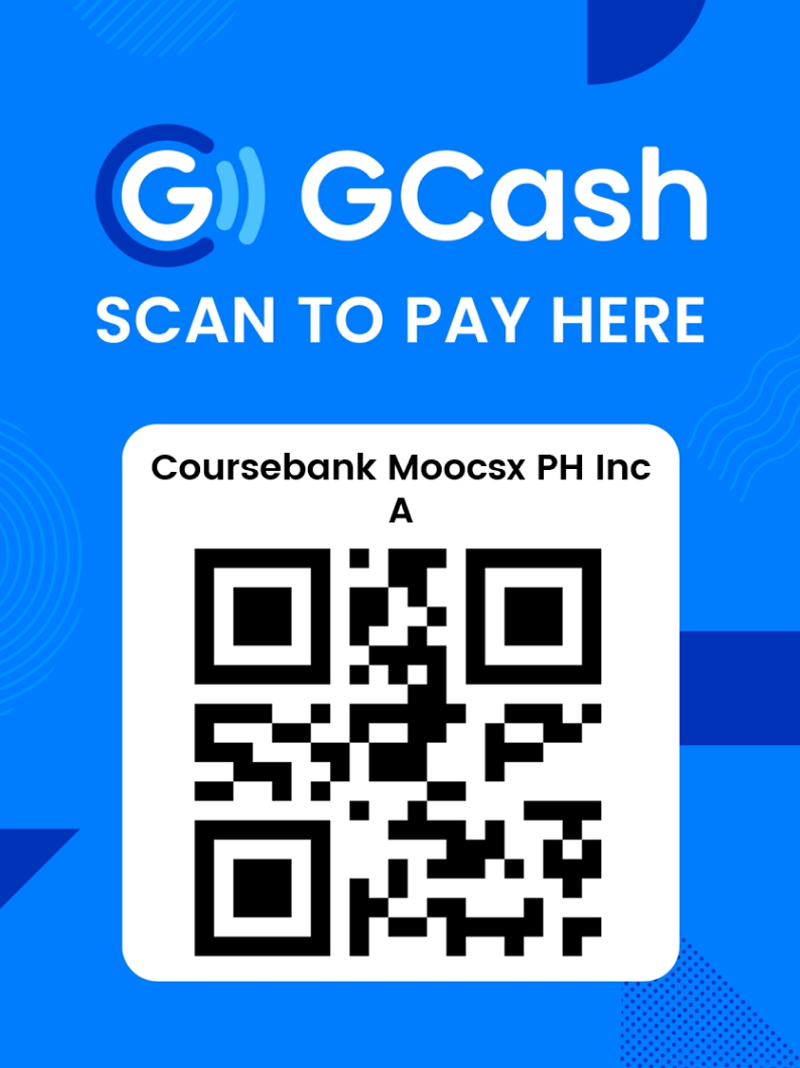
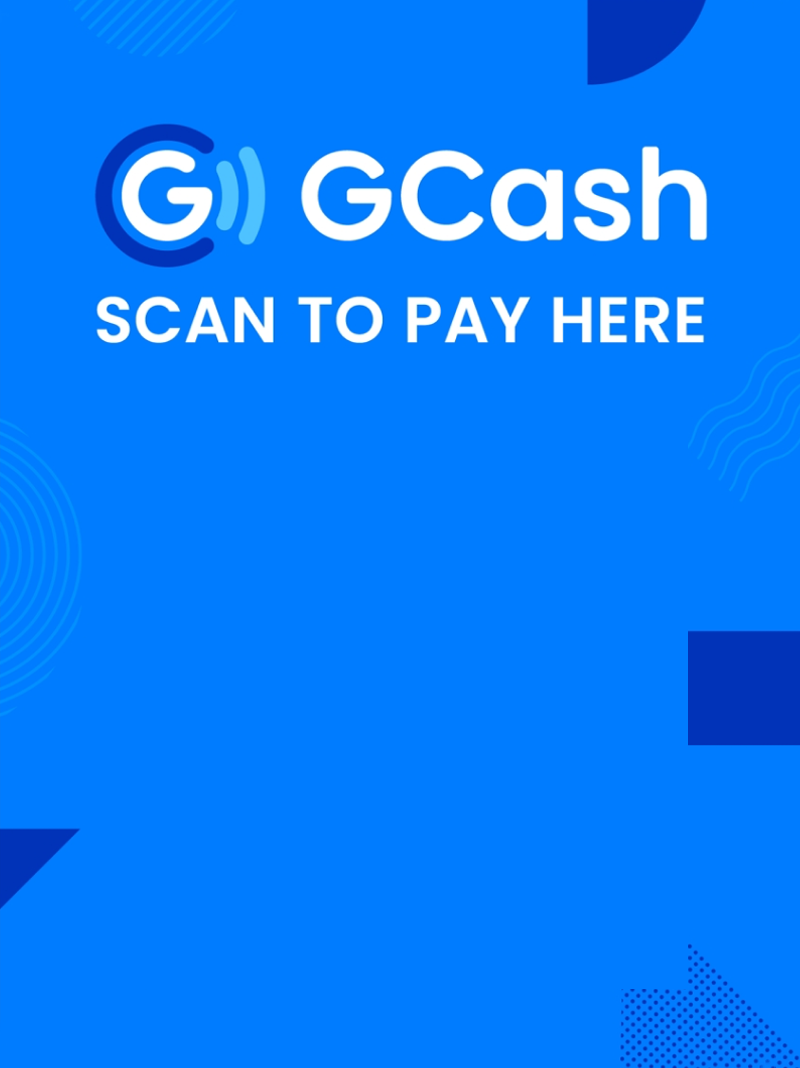
230725 update
付款碼新增以照片顯示 更新

diff --git a/css/standard.css b/css/standard.css
@@ -1,1 +1,1 @@
-@import url("reset.css");@font-face{font-family:'Roboto';font-style:normal;font-weight:400;font-display:swap;src:url(https://fonts.gstatic.com/s/roboto/v30/KFOmCnqEu92Fr1Me5Q.ttf) format('truetype')}.body-wrap{width:100%;height:auto;font-family:'Roboto','Noto Sans TC','Microsoft JhengHei','黑體',sans-serif,serif;font-size:18px;letter-spacing:.5px;-webkit-text-size-adjust:none;color:#333333;background:#F2F1F6;overflow:hidden}.body-wrap *{-webkit-box-sizing:border-box;-moz-box-sizing:border-box;box-sizing:border-box}.body-wrap a,.body-wrap button,.body-wrap select{cursor:pointer}.body-wrap a:hover{text-decoration:none}.body-wrap select,.body-wrap input,.body-wrap textarea,.body-wrap button{font-family:'Roboto','Noto Sans TC','Microsoft JhengHei','黑體',sans-serif,serif;font-size:16px;letter-spacing:.5px;-webkit-text-size-adjust:none}.body-wrap input:-webkit-autofill{box-shadow:0 0 0 1000px #FFFFFF inset !important}.body-wrap img{max-width:100%;height:auto}.container{width:100%;height:100dvh;margin:0 auto;display:flex;flex-flow:nowrap;justify-content:space-between;align-items:flex-start}.main__left{width:52%;height:100%;padding:3%;display:flex;flex-flow:wrap;align-content:space-between;align-items:stretch}.main__left>*{width:100%}.main__left .store-name{margin-bottom:10px;font-size:24px;font-weight:bold;text-align:center}.main__left .title-s{margin-bottom:5px;color:#828282;text-align:center}.main__left .payments{display:flex;flex-flow:wrap;justify-content:stretch;align-items:flex-start}.main__left .payments>a{width:14%;margin-right:7.5%;margin-bottom:0;cursor:default}.main__left .payments>a:nth-child(5n){margin-right:0}.main__left .qrcode{padding:4%;margin:10px auto 20px auto;color:#22798C;text-align:center;background:#FFFFFF;border-radius:20px;border:5px solid #FF9900;-webkit-animation:border-shiny 1.5s infinite;animation:border-shiny 1.5s infinite}.main__left .qrcode .qrcode__title{font-size:32px}.main__left .qrcode .qrcode__img{position:relative;width:60%;max-width:180px;margin:15px auto 10px auto}.main__left .qrcode .qrcode__img>img{display:block}.main__left .qrcode .qrcode__total{font-size:24px;font-weight:bold}.main__left .qrcode .qrcode__total>b{font-size:44px}.main__left .qrcode .state-overlay{position:absolute;width:100%;height:100%;left:0;right:0;top:0;bottom:0;margin:auto;background-color:rgba(255,255,255,0.9)}@-webkit-keyframes border-shiny{50%{border-color:#F2F1F6}}@keyframes border-shiny{50%{border-color:#F2F1F6}}.main__left .pay--state-success{margin:5px auto 15px auto;color:#27AE60;border-color:#27AE60}.main__left .pay--state-success .state--done{background-image:url(../images/done.png);background-repeat:no-repeat;background-position:center;background-size:60%}.main__left .pay--state-false{color:#EB5757;border-color:#EB5757}.main__left .pay--state-false .state--outdated{background-image:url(../images/outdated.png);background-repeat:no-repeat;background-position:center;background-size:75%}.main__left .order{display:flex;flex-flow:nowrap;justify-content:space-between;align-items:center;color:#828282;font-size:16px}.main__left .qrcode.photo{position:relative;width:auto;height:80%;padding:0;overflow:hidden}.main__left .qrcode.photo>img{display:block;width:auto;height:100%;margin:0 auto}.main__left .qrcode.noborder{border:none}.main__left .qrcode.photo.pay--state-success>img,.main__left .qrcode.photo.pay--state-false>img{filter:grayscale(1);-webkit-filter:grayscale(1)}.main__left .qrcode.photo.pay--state-success .state--done,.main__left .qrcode.photo.pay--state-false .state--done,.main__left .qrcode.photo.pay--state-success .state--outdated,.main__left .qrcode.photo.pay--state-false .state--outdated{background-size:40%;background-color:rgba(255,255,255,0.6)}.main__right{width:48%;height:100%}.main__right .main__right--dm{width:100%;height:100%;overflow:hidden}.main__right .main__right--dm>img{width:100%;height:100%;object-fit:cover}.main__right .main__right--order{width:100%;height:100%;padding:5% 5% 5% 0;display:flex;flex-direction:column}.main__right .main__right--order .order-detail{position:relative;width:100%;height:100%;padding:0 20px 20px 20px;overflow:auto;background:#FFFFFF;box-shadow:0 5px 10px rgba(55,84,170,0.2)}.main__right .main__right--order .order-detail .title-b{position:sticky;width:100%;padding:10px;top:0;left:0;color:#000000;font-size:22px;text-align:center;background:#FFFFFF}.main__right .main__right--order .order-detail>table{width:100%;border:none}.main__right .main__right--order .order-detail>table td{padding-bottom:15px}.main__right .main__right--order .order-detail .pt-qty{padding-right:10px}.main__right .main__right--order .order-detail .pt-qty>span{display:inline-block;padding:3px 10px;font-size:22px;color:#000000;text-align:center;background:#F2F1F6;border-radius:10px}.main__right .main__right--order .order-detail .pt-detail{width:100%;color:#828282;font-size:16px;font-weight:normal}.main__right .main__right--order .order-detail .pt-detail .pt-name{color:#000000;font-size:22px;font-weight:500}.main__right .main__right--order .order-detail .pt-subtotal{padding-left:15px;font-size:22px;font-weight:bold;text-align:right;white-space:nowrap}.main__right .main__right--order .order-detail .pt-subtotal .fs{font-size:14px;margin:auto}.main__right .main__right--order .order-count{position:relative;width:100%;height:fit-content;padding:2.5% 5%;margin-top:10px;background:#FFFFFF;box-shadow:0 5px 10px rgba(55,84,170,0.2)}.main__right .main__right--order .order-count>*{display:flex;flex-flow:nowrap;justify-content:space-between;align-items:center;padding:3px 0;font-size:22px;color:#828282}.main__right .main__right--order .order-count>* .fs{font-size:14px}.main__right .main__right--order .order-count .order-count__addon-items{width:80%;margin-top:-6px;font-size:16px;display:-webkit-box;-webkit-line-clamp:2;-webkit-box-orient:vertical;overflow:hidden;text-overflow:ellipsis}.main__right .main__right--order .order-count .order-count__discount{color:#EB5757}.main__right .main__right--order .order-count .order-count__total{color:#000000}.main__right .main__right--order .order-count::after{display:block;content:'';position:absolute;width:100%;height:20px;left:0;right:0;bottom:-15px;background:url(../images/zip.png) repeat-x center top;background-size:contain}.main__full--dm{width:100%;height:100dvh;overflow:hidden}.main__full--dm>img{width:100%;height:100%;object-fit:cover}@media (min-height:900px){.main__left .store-name{font-size:32px}.main__left .qrcode{padding:12%}.main__left .qrcode .qrcode__title{font-size:40px}.main__left .qrcode .qrcode__img{max-width:300px;margin:30px auto 20px auto}.main__left .qrcode .qrcode__total{font-size:32px}.main__left .qrcode .qrcode__total>b{font-size:52px}}@media (max-width:820px){.body-wrap{font-size:14px;overflow:auto}.container{min-height:100dvh;height:auto}.main__left{width:100%;height:auto;padding:10% 5% 5% 5%}.main__left .store-name{font-size:18px}.main__left .payments>a{width:18.4%;margin-right:2%}.main__left .qrcode .qrcode__title{font-size:24px}.main__left .qrcode .qrcode__total{font-size:18px}.main__left .qrcode .qrcode__total>b{font-size:36px}.main__left .order{font-size:14px}.container .main__right{display:none}.qrcode.pay--state-success{margin:10px auto 25px auto}}@media (max-height:680px){.main__left .store-name{font-size:20px}.main__left .qrcode{margin:5px auto 10px auto}.main__left .qrcode .qrcode__title{font-size:24px}.main__left .qrcode .qrcode__img{max-width:120px;margin:15px auto 10px auto}.main__left .qrcode .qrcode__total{font-size:16px}.main__left .qrcode .qrcode__total>b{font-size:32px}.main__right{height:98%}.main__right .main__right--order .order-count::after{bottom:-14px}}
+@import url("reset.css");@font-face{font-family:'Roboto';font-style:normal;font-weight:400;font-display:swap;src:url(https://fonts.gstatic.com/s/roboto/v30/KFOmCnqEu92Fr1Me5Q.ttf) format('truetype')}.body-wrap{width:100%;height:auto;font-family:'Roboto','Noto Sans TC','Microsoft JhengHei','黑體',sans-serif,serif;font-size:18px;letter-spacing:.5px;-webkit-text-size-adjust:none;color:#333333;background:#F2F1F6;overflow:hidden}.body-wrap *{-webkit-box-sizing:border-box;-moz-box-sizing:border-box;box-sizing:border-box}.body-wrap a,.body-wrap button,.body-wrap select{cursor:pointer}.body-wrap a:hover{text-decoration:none}.body-wrap select,.body-wrap input,.body-wrap textarea,.body-wrap button{font-family:'Roboto','Noto Sans TC','Microsoft JhengHei','黑體',sans-serif,serif;font-size:16px;letter-spacing:.5px;-webkit-text-size-adjust:none}.body-wrap input:-webkit-autofill{box-shadow:0 0 0 1000px #FFFFFF inset !important}.body-wrap img{max-width:100%;height:auto}.container{width:100%;height:100dvh;margin:0 auto;display:flex;flex-flow:nowrap;justify-content:space-between;align-items:flex-start}.main__left{width:52%;height:100%;padding:3%;display:flex;flex-flow:wrap;align-content:space-between;align-items:stretch}.main__left>*{width:100%}.main__left .store-name{margin-bottom:10px;font-size:24px;font-weight:bold;text-align:center}.main__left .title-s{margin-bottom:5px;color:#828282;text-align:center}.main__left .payments{display:flex;flex-flow:wrap;justify-content:stretch;align-items:flex-start}.main__left .payments>a{width:14%;margin-right:7.5%;margin-bottom:0;cursor:default}.main__left .payments>a:nth-child(5n){margin-right:0}.main__left .qrcode{padding:4%;margin:10px auto 20px auto;color:#22798C;text-align:center;background:#FFFFFF;border-radius:20px;border:5px solid #FF9900;-webkit-animation:border-shiny 1.5s infinite;animation:border-shiny 1.5s infinite}.main__left .qrcode .qrcode__title{font-size:32px}.main__left .qrcode .qrcode__img{position:relative;width:60%;max-width:180px;margin:15px auto 10px auto}.main__left .qrcode .qrcode__img>img{display:block;width:70%;height:auto;margin:0 auto}.main__left .qrcode .qrcode__total{font-size:24px;font-weight:bold}.main__left .qrcode .qrcode__total>b{font-size:44px}.main__left .qrcode .state-overlay{position:absolute;width:100%;height:100%;left:0;right:0;top:0;bottom:0;margin:auto;background-color:rgba(255,255,255,0.9)}@-webkit-keyframes border-shiny{50%{border-color:#F2F1F6}}@keyframes border-shiny{50%{border-color:#F2F1F6}}.main__left .pay--state-success{margin:5px auto 15px auto;color:#27AE60;border-color:#27AE60}.main__left .pay--state-success .state--done{background-image:url(../images/done.png);background-repeat:no-repeat;background-position:center;background-size:60%}.main__left .pay--state-false{color:#EB5757;border-color:#EB5757}.main__left .pay--state-false .state--outdated{background-image:url(../images/outdated.png);background-repeat:no-repeat;background-position:center;background-size:75%}.main__left .order{display:flex;flex-flow:nowrap;justify-content:space-between;align-items:center;color:#828282;font-size:16px}.main__left .qrcode.photo{position:relative;width:auto;height:80%;padding:0;overflow:hidden}.main__left .qrcode.photo>img{display:block;width:auto;height:100%}.main__left .qrcode.photo .qrcode__img{position:absolute;width:80%;max-width:80%;bottom:7%;left:10%;right:10%;margin:0 auto;padding:5% 5% 7% 5%;background:#FFFFFF;border-radius:25px}.main__left .qrcode.photo .qrcode__img .qrcode__title{margin-bottom:15px;font-size:20px;font-weight:bold;color:#000000}.main__left .qrcode.noborder{border:none}.main__left .qrcode.photo.pay--state-success>img,.main__left .qrcode.photo.pay--state-false>img{filter:grayscale(1);-webkit-filter:grayscale(1);opacity:.5}.main__left .qrcode.photo.pay--state-success .state--done,.main__left .qrcode.photo.pay--state-false .state--done,.main__left .qrcode.photo.pay--state-success .state--outdated,.main__left .qrcode.photo.pay--state-false .state--outdated{border-radius:25px;background-size:40%;background-color:rgba(255,255,255,0.6)}.main__right{width:48%;height:100%}.main__right .main__right--dm{width:100%;height:100%;overflow:hidden}.main__right .main__right--dm>img{width:100%;height:100%;object-fit:cover}.main__right .main__right--order{width:100%;height:100%;padding:5% 5% 5% 0;display:flex;flex-direction:column}.main__right .main__right--order .order-detail{position:relative;width:100%;height:100%;padding:0 20px 20px 20px;overflow:auto;background:#FFFFFF;box-shadow:0 5px 10px rgba(55,84,170,0.2)}.main__right .main__right--order .order-detail .title-b{position:sticky;width:100%;padding:10px;top:0;left:0;color:#000000;font-size:22px;text-align:center;background:#FFFFFF}.main__right .main__right--order .order-detail>table{width:100%;border:none}.main__right .main__right--order .order-detail>table td{padding-bottom:15px}.main__right .main__right--order .order-detail .pt-qty{padding-right:10px}.main__right .main__right--order .order-detail .pt-qty>span{display:inline-block;padding:3px 10px;font-size:22px;color:#000000;text-align:center;background:#F2F1F6;border-radius:10px}.main__right .main__right--order .order-detail .pt-detail{width:100%;color:#828282;font-size:16px;font-weight:normal}.main__right .main__right--order .order-detail .pt-detail .pt-name{color:#000000;font-size:22px;font-weight:500}.main__right .main__right--order .order-detail .pt-subtotal{padding-left:15px;font-size:22px;font-weight:bold;text-align:right;white-space:nowrap}.main__right .main__right--order .order-detail .pt-subtotal .fs{font-size:14px;margin:auto}.main__right .main__right--order .order-count{position:relative;width:100%;height:fit-content;padding:2.5% 5%;margin-top:10px;background:#FFFFFF;box-shadow:0 5px 10px rgba(55,84,170,0.2)}.main__right .main__right--order .order-count>*{display:flex;flex-flow:nowrap;justify-content:space-between;align-items:center;padding:3px 0;font-size:22px;color:#828282}.main__right .main__right--order .order-count>* .fs{font-size:14px}.main__right .main__right--order .order-count .order-count__addon-items{width:80%;margin-top:-6px;font-size:16px;display:-webkit-box;-webkit-line-clamp:2;-webkit-box-orient:vertical;overflow:hidden;text-overflow:ellipsis}.main__right .main__right--order .order-count .order-count__discount{color:#EB5757}.main__right .main__right--order .order-count .order-count__total{color:#000000}.main__right .main__right--order .order-count::after{display:block;content:'';position:absolute;width:100%;height:20px;left:0;right:0;bottom:-15px;background:url(../images/zip.png) repeat-x center top;background-size:contain}.main__full--dm{width:100%;height:100dvh;overflow:hidden}.main__full--dm>img{width:100%;height:100%;object-fit:cover}@media (min-height:900px){.main__left .store-name{font-size:32px}.main__left .qrcode{padding:12%}.main__left .qrcode .qrcode__title{font-size:40px}.main__left .qrcode .qrcode__img{max-width:300px;margin:30px auto 20px auto}.main__left .qrcode .qrcode__total{font-size:32px}.main__left .qrcode .qrcode__total>b{font-size:52px}}@media (max-width:820px){.body-wrap{font-size:14px;overflow:auto}.container{min-height:100dvh;height:auto}.main__left{width:100%;height:auto;padding:10% 5% 5% 5%}.main__left .store-name{font-size:18px}.main__left .payments>a{width:18.4%;margin-right:2%}.main__left .qrcode .qrcode__title{font-size:24px}.main__left .qrcode .qrcode__total{font-size:18px}.main__left .qrcode .qrcode__total>b{font-size:36px}.main__left .order{font-size:14px}.container .main__right{display:none}.qrcode.pay--state-success{margin:10px auto 25px auto}}@media (max-height:680px){.main__left .store-name{font-size:20px}.main__left .qrcode{margin:5px auto 10px auto}.main__left .qrcode .qrcode__title{font-size:24px}.main__left .qrcode .qrcode__img{max-width:120px;margin:15px auto 10px auto}.main__left .qrcode .qrcode__total{font-size:16px}.main__left .qrcode .qrcode__total>b{font-size:32px}.main__left .qrcode.photo .qrcode__img .qrcode__title{font-size:14px}.main__right{height:98%}.main__right .main__right--order .order-count::after{bottom:-14px}}

diff --git a/pay_gcash.html b/pay_gcash.html
@@ -27,18 +27,30 @@
 
         <div class="qrcode photo noborder">
             <img src="images/gcash.png">
+            <div class="qrcode__img">
+                <div class="qrcode__title">Coursebank Moocsx PH Inc<br>A</div>
+                <img src="images/qrcode.svg">
+            </div>
         </div>
 
         <!-- 付款成功 -->
         <div class="qrcode photo pay--state-success">
             <img src="images/gcash.png">
-            <div class="state-overlay state--done"></div>
+            <div class="qrcode__img">
+                <div class="qrcode__title">Coursebank Moocsx PH Inc<br>A</div>
+                <img src="images/qrcode.svg">
+                <div class="state-overlay state--done"></div>
+            </div>
         </div>
 
         <!-- 付款失敗 or QRcode失效 -->
         <div class="qrcode photo pay--state-false">
             <img src="images/gcash.png">
-            <div class="state-overlay state--outdated"></div>
+            <div class="qrcode__img">
+                <div class="qrcode__title">Coursebank Moocsx PH Inc<br>A</div>
+                <img src="images/qrcode.svg">
+                <div class="state-overlay state--outdated"></div>
+            </div>
         </div>
 
         <div class="order">
@@ -62,7 +74,7 @@
                         <div>No onions</div>
                     </td>
                     <td class="pt-subtotal">
-                        <span class="fs">₱</span>1998.<span class="fs">00</span>
+                        <span class="fs">₱</span>1998<span class="fs">.00</span>
                     </td>
                 </tr>
                 <tr>
@@ -73,7 +85,7 @@
                         <div>Sprite</div>
                     </td>
                     <td class="pt-subtotal">
-                        <span class="fs">₱</span>1998.<span class="fs">00</span>
+                        <span class="fs">₱</span>1998<span class="fs">.00</span>
                     </td>
                 </tr>
                 <tr>
@@ -83,7 +95,7 @@
                         <div>Little spicy</div>
                     </td>
                     <td class="pt-subtotal">
-                        <span class="fs">₱</span>999.<span class="fs">00</span>
+                        <span class="fs">₱</span>999<span class="fs">.00</span>
                     </td>
                 </tr>
             </table>
@@ -92,20 +104,20 @@
             <div class="order-count">
                 <div class="order-count__subtotal">
                     <span>Subtotal</span>
-                    <b><span class="fs">₱</span>3000.<span class="fs">00</span></b>
+                    <b><span class="fs">₱</span>3000<span class="fs">.00</span></b>
                 </div>
                 <div class="order-count__addon">
                     <span>Add-ons</span>
-                    <b><span class="fs">₱</span>599.<span class="fs">00</span></b>
+                    <b><span class="fs">₱</span>599<span class="fs">.00</span></b>
                 </div>
                 <span class="order-count__addon-items">Shopping Bag-Small x2｜Tableware-Need｜Shopping Basket-Medium｜Shopping Cart-Large x3｜Plastic Bag-Small｜Plastic Basket-Medium｜Plastic Cart</span>
                 <div class="order-count__discount">
                     <span>Discount</span>
-                    <b><span class="fs">-₱</span>500.<span class="fs">00</span></b>
+                    <b><span class="fs">-₱</span>500<span class="fs">.00</span></b>
                 </div>
                 <div class="order-count__total">
                     <span>Total</span>
-                    <b><span class="fs">₱</span>5994.<span class="fs">00</span></b>
+                    <b><span class="fs">₱</span>5994<span class="fs">.00</span></b>
                 </div>
             </div>
         </div>

diff --git a/css/standard.less b/css/standard.less
@@ -57,7 +57,7 @@
 
         .qrcode__title { font-size: 32px; }
         .qrcode__img { position: relative; width: 60%; max-width: 180px; margin: 15px auto 10px auto; 
-            > img { display: block; }
+            > img { display: block; width: 70%; height: auto; margin: 0 auto; }
         }
         .qrcode__total { font-size: 24px; font-weight: bold; 
             > b { font-size: 44px; }
@@ -82,12 +82,15 @@
 
     /* 付款碼以照片顯示 */
     .qrcode.photo { position: relative; width: auto; height: 80%; padding: 0; overflow: hidden;
-        > img { display: block; width: auto; height: 100%; margin: 0 auto; }
+        > img { display: block; width: auto; height: 100%; }
+        .qrcode__img { position: absolute; width: 80%; max-width: 80%; bottom: 7%; left: 10%; right: 10%; margin: 0 auto; padding: 5% 5% 7% 5%; background: #FFFFFF; border-radius: 25px;
+            .qrcode__title { margin-bottom: 15px; font-size: 20px; font-weight: bold; color: @color-black; }
+        }
     }
     .qrcode.noborder { border: none; }
     .qrcode.photo.pay--state-success, .qrcode.photo.pay--state-false { 
-        > img { filter: grayscale(1); -webkit-filter: grayscale(1); }
-        .state--done, .state--outdated { background-size: 40%; background-color: rgba(255, 255, 255, 0.6); }
+        > img { filter: grayscale(1); -webkit-filter: grayscale(1); opacity: 0.5; }
+        .state--done, .state--outdated { border-radius: 25px; background-size: 40%; background-color: rgba(255, 255, 255, 0.6); }
     }
 }
 .main__right { width: 48%; height: 100%; 
@@ -169,6 +172,11 @@
             .qrcode__img { max-width: 120px; margin: 15px auto 10px auto; }
             .qrcode__total { font-size: 16px; 
                 > b { font-size: 32px; }
+            }
+        }
+        .qrcode.photo { 
+            .qrcode__img { 
+                .qrcode__title { font-size: 14px; }
             }
         }
     }

diff --git a/pay.html b/pay.html
@@ -44,7 +44,7 @@
             <div class="qrcode__img">
                 <img src="images/qrcode.svg">
             </div>
-            <div class="qrcode__total">$<b>2,500</b></div>
+            <div class="qrcode__total">$<b>5994</b>.00</div>
         </div>
 
         <!-- 付款成功 -->
@@ -55,7 +55,7 @@
                 <img src="images/qrcode.svg">
                 <div class="state-overlay state--done"></div>
             </div>
-            <div class="qrcode__total">$<b>2,500</b></div>
+            <div class="qrcode__total">$<b>5994</b>.00</div>
         </div>
 
         <!-- 付款失敗 -->
@@ -64,7 +64,7 @@
             <div class="qrcode__img">
                 <img src="images/qrcode.svg">
             </div>
-            <div class="qrcode__total">$<b>2,500</b></div>
+            <div class="qrcode__total">$<b>5994</b>.00</div>
         </div>
 
         <!-- QRcode失效 -->
